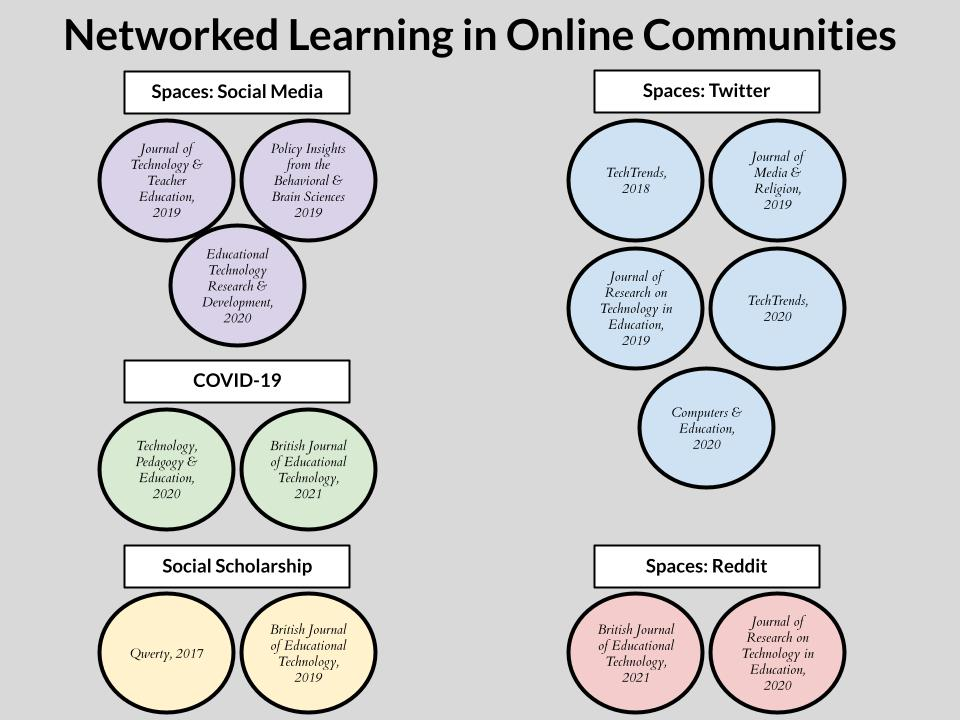
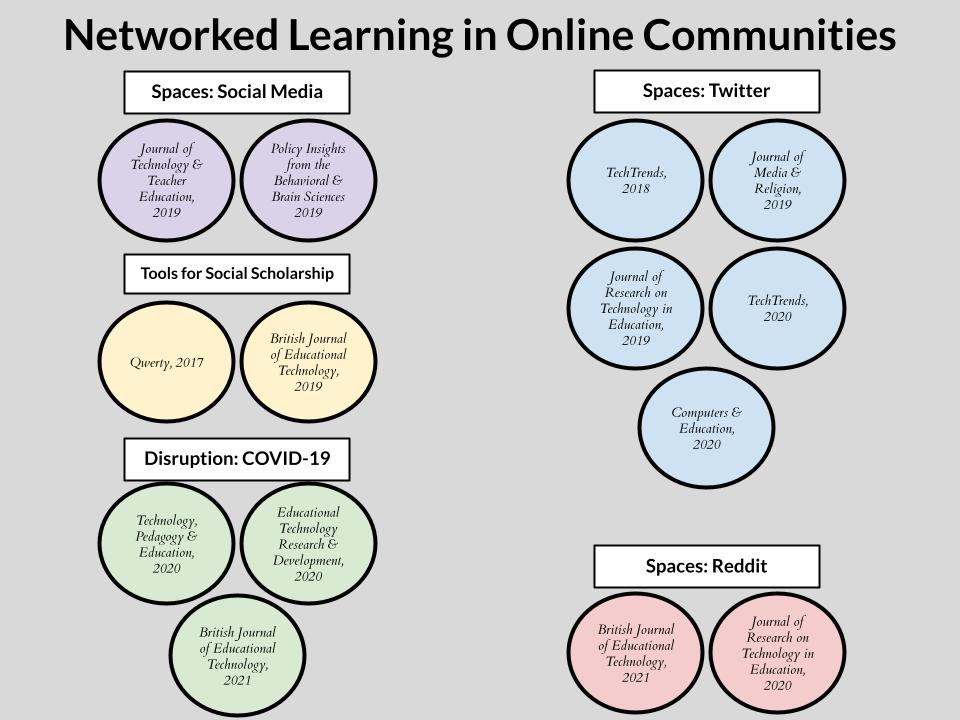
updated and trimmed slides

Changed region(s): [[0.0938, 0.3056, 0.4062, 1.0]]

diff --git a/index.html b/index.html
@@ -132,29 +132,17 @@ It was likely up to you to figure out how to fill the gaps.
 
 ---
 
-# Tensions
-
-&lt;img src="img/tension.jpg" width="600px" style="display: block; margin: auto;" /&gt;
-
---
-
-An extra layer to this:
-
---
-
-Additional possibilities raise additional tensions
-
----
-
 # Hidden Complexity
 
 &lt;img src="img/edu-verse-model2.jpg" width="720px" style="display: block; margin: auto;" /&gt;
 
 ---
 
-# Build-Your-Own Support System
+# Tensions
 
-&lt;img src="img/byo-model4.jpg" width="720px" style="display: block; margin: auto;" /&gt;
+&lt;img src="img/tension.jpg" width="720px" style="display: block; margin: auto;" /&gt;
+
+The additional possibilities raise additional tensions
 
 ---
 
@@ -174,22 +162,6 @@ Additional possibilities raise additional tensions
 
 --
 
-Explore **build-your-own support systems** 
-
---
-
-that new teachers construct 
-
---
-
-during **induction** - the disrupted transition period from preparation to practice
-
----
-
-# Purpose of This Dissertation
-
-&lt;img src="img/teacher.jpg" width="600px" style="display: block; margin: auto;" /&gt;
-
 Understand how and why new teachers
 
 --
@@ -199,6 +171,18 @@ use social media to fill **gaps** during induction
 --
 
 and what new **tensions** are created
+
+---
+
+# Purpose of This Dissertation
+
+&lt;img src="img/teacher.jpg" width="600px" style="display: block; margin: auto;" /&gt;
+
+Explore **build-your-own support systems** that new teachers construct 
+
+--
+
+during **induction** - the disrupted transition period from preparation to practice
 
 ---
 
@@ -240,25 +224,21 @@ Meant to improve teaching and learning
 
 --
 
-- **Spaces:** school of employment, district workshops, social media platforms
+- **Spaces:** both online and offline
 
 ---
 
 # Perspectives on PLNs
 
-&lt;img src="img/streetlamp.jpg" width="480px" style="display: block; margin: auto;" /&gt;
+&lt;img src="img/streetlamp.jpg" width="540px" style="display: block; margin: auto;" /&gt;
 
 --
 
-**Ecology:** Interconnected, mutually influential spaces 
+**Ecology:** How tools, people, and spaces fit together
 
 --
 
 - Helps us to understand **gaps** in the system
-
---
-
-- Answers: How does it all fit together? What's missing?
 
 --
 
@@ -272,17 +252,13 @@ Meant to improve teaching and learning
 
 # Perspectives on PLNs
 
-&lt;img src="img/streetlamp.jpg" width="480px" style="display: block; margin: auto;" /&gt;
+&lt;img src="img/streetlamp.jpg" width="540px" style="display: block; margin: auto;" /&gt;
 
-**Agency:** Intentional, purposeful actions 
+**Agency:** Intentional, purposeful actions - why new teachers construct the system
 
 --
 
 - Helps us to understand **tensions** in the system
-
---
-
-- Answers: How does a new teacher construct the system?
 
 --
 
@@ -446,17 +422,11 @@ class: inverse, center, middle
 
 &lt;img src="img/RQ1-reasons.png" width="720" style="display: block; margin: auto;" /&gt;
 
---
+- **Change:** new curricula, starting mid-year
 
-**Change:** new curricula, starting mid-year
+- **Scarcity of resources:** missing classroom materials, poor physical conditions 
 
---
-
-**Scarcity of resources:** missing classroom materials, poor physical conditions 
-
---
-
-**Conflicting teaching beliefs:** 
+- **Conflicting teaching beliefs:** 
 
 &gt; I have one teacher who just wants to use curriculum from 30 years ago. And I'm just like, ‘I can't do it.’ There are just completely irrelevant things. ~ Hallie
 
@@ -468,17 +438,13 @@ class: inverse, center, middle
 
 --
 
-**Planning:**
+- **Planning:**
 
 &gt; There are teachers that are willing to help, but because my team doesn't do a lot of the actual same activity, it doesn't really help to share planning resources, always. ~ Hallie
 
---
+- **Enacting practice:** Taylor found YouTube videos to be especially useful for demonstrating activities to her physical education (PE) classes
 
-**Enacting practice:** Taylor found YouTube videos to be especially useful for demonstrating activities to her physical education (PE) classes
-
---
-
-**Connecting socially:** venting frustrations, hearing outside perspectives and diverse opinions
+- **Connecting socially:** venting frustrations, hearing outside perspectives and diverse opinions
 
 ---
 
@@ -486,13 +452,9 @@ class: inverse, center, middle
 
 &lt;img src="img/RQ3-people.png" width="720" style="display: block; margin: auto;" /&gt;
 
---
+- **In-school:** mentor teachers, professional learning communities (PLCs), teachers' lounge
 
-**In-school:** mentor teachers, professional learning communities (PLCs), teachers' lounge
-
---
-
-**Out-of-school:** district workshops, district-wide Facebook group, friends and family, professional organizations, social media
+- **Out-of-school:** district workshops, district-wide Facebook group, friends and family, professional organizations, social media
 
 ---
 
@@ -506,37 +468,23 @@ class: inverse, center, middle
 
 &lt;img src="img/social-media-phone.jpg" width="360" style="display: block; margin: auto;" /&gt;
 
---
+- **Planning, in-school:** Google Classroom (LMS) shell
 
-**Planning, in-school:** Google Classroom (LMS) shell
+- **Planning, out-of-school:** TeachersPayTeachers.com, Pinterest
 
---
+- **Enacting practice, in-school:** none
 
-**Planning, out-of-school:** TeachersPayTeachers.com, Pinterest
+- **Enacting practice, out-of-school:** YouTube
 
---
+- **Connecting socially, in-school:** Facebook
 
-**Enacting practice, in-school:** none
-
---
-
-**Enacting practice, out-of-school:** YouTube
-
---
-
-**Connecting socially, in-school:** Facebook
-
---
-
-**Connecting socially, out-of-school:** Facebook, Instagram
+- **Connecting socially, out-of-school:** Facebook, Instagram
 
 ---
 
 # RQ4. Social Media: Engagement
 
 &lt;img src="img/RQ4-engagement.png" width="720" style="display: block; margin: auto;" /&gt;
-
---
 
 ### "**I feel like I filled a lot of gaps.** If I couldn't find something, I'd go to social media to find it." ~ Julie
 
@@ -546,17 +494,13 @@ class: inverse, center, middle
 
 &lt;img src="img/RQ4-engagement.png" width="720" style="display: block; margin: auto;" /&gt;
 
-**Browsing:** searching for resources on TeachersPayTeachers.com, watching YouTube videos, scrolling through Pinterest
+- **Browsing:** searching for resources on TeachersPayTeachers.com, watching YouTube videos, scrolling through Pinterest
 
---
-
-**Asking:**
+- **Asking:**
 
 &gt; I wish there was a way to use social media like, ‘Here's a problem I'm dealing with; can people help me with this problem?’ ~ Julie
 
---
-
-**Exchanging:** interaction and dialogue to satisfy mutual interests, characterized by group membership
+- **Exchanging:** interaction and dialogue to satisfy mutual interests, characterized by group membership
 
 ---
 
@@ -564,19 +508,13 @@ class: inverse, center, middle
 
 &lt;img src="img/RQ4-boundaries.png" width="720" style="display: block; margin: auto;" /&gt;
 
---
+- **Personal-professional separation:** separation is more important than potential benefits; having a plan for each platform
 
-**Personal-professional separation:** separation is more important than potential benefits; having a plan for each platform
-
---
-
-**Time management:** Simone's goal of not bringing work home
+- **Time management:** Simone's goal of not bringing work home
 
 &gt; If I don't have time for myself, then I'm doing [my students] a disservice. I have to have that shut-off button. ~ Mike
 
---
-
-**Social comparison:**
+- **Social comparison:**
 
 &gt; Sometimes I feel like, it makes me feel like a crappy teacher, because I'm seeing them do all these things. ~ Anne
 
@@ -592,11 +530,9 @@ class: inverse, center, middle
 
 &lt;img src="img/byo-model-taylor.jpg" width="720" style="display: block; margin: auto;" /&gt;
 
---
+- **Gaps:** Lack of undergraduate teacher preparation
 
-**Gaps:** Lack of undergraduate teacher preparation
-
-**Tensions:** Personal-professional separation
+- **Tensions:** Personal-professional separation
 
 ---
 
@@ -604,11 +540,9 @@ class: inverse, center, middle
 
 &lt;img src="img/byo-model-simone.jpg" width="720" style="display: block; margin: auto;" /&gt;
 
---
+- **Gaps:** Professional isolation, lack of resources
 
-**Gaps:** Professional isolation, lack of resources
-
-**Tensions:** Time management
+- **Tensions:** Time management
 
 ---
 
@@ -616,11 +550,9 @@ class: inverse, center, middle
 
 &lt;img src="img/byo-model-anne.jpg" width="720" style="display: block; margin: auto;" /&gt;
 
---
+- **Gaps:** Missing classroom materials, poor physical conditions
 
-**Gaps:** Missing classroom materials, poor physical conditions
-
-**Tensions:** Social comparison
+- **Tensions:** Social comparison
 
 ---
 
@@ -758,25 +690,27 @@ class: inverse, center, middle
 
 # Conclusion
 
-&lt;img src="img/edu-verse.jpg" width="420px" style="display: block; margin: auto;" /&gt;
+&lt;img src="img/edu-verse.jpg" width="600px" style="display: block; margin: auto;" /&gt;
 
-The goal, for all of us:
-
---
-
-**Sustaining, not just retaining new teachers**
+Disruptions are going to keep happening
 
 --
 
-- Nurture build-your-own support systems to fill induction **gaps**
+creating **gaps** that necessitate build-your-own support systems
 
 --
 
-- Seek further insight into navigating the resulting **tensions**...
+which, in turn, raise new **tensions**.
 
---
+---
 
-...as new teachers continue to reflect: *"I feel like I filled a lot of gaps..."*
+# Conclusion
+
+&lt;img src="img/edu-verse.jpg" width="600px" style="display: block; margin: auto;" /&gt;
+
+My dissertation findings help us move a bit closer to
+
+**sustaining**, not just retaining, new teachers.
 
 ---
 
